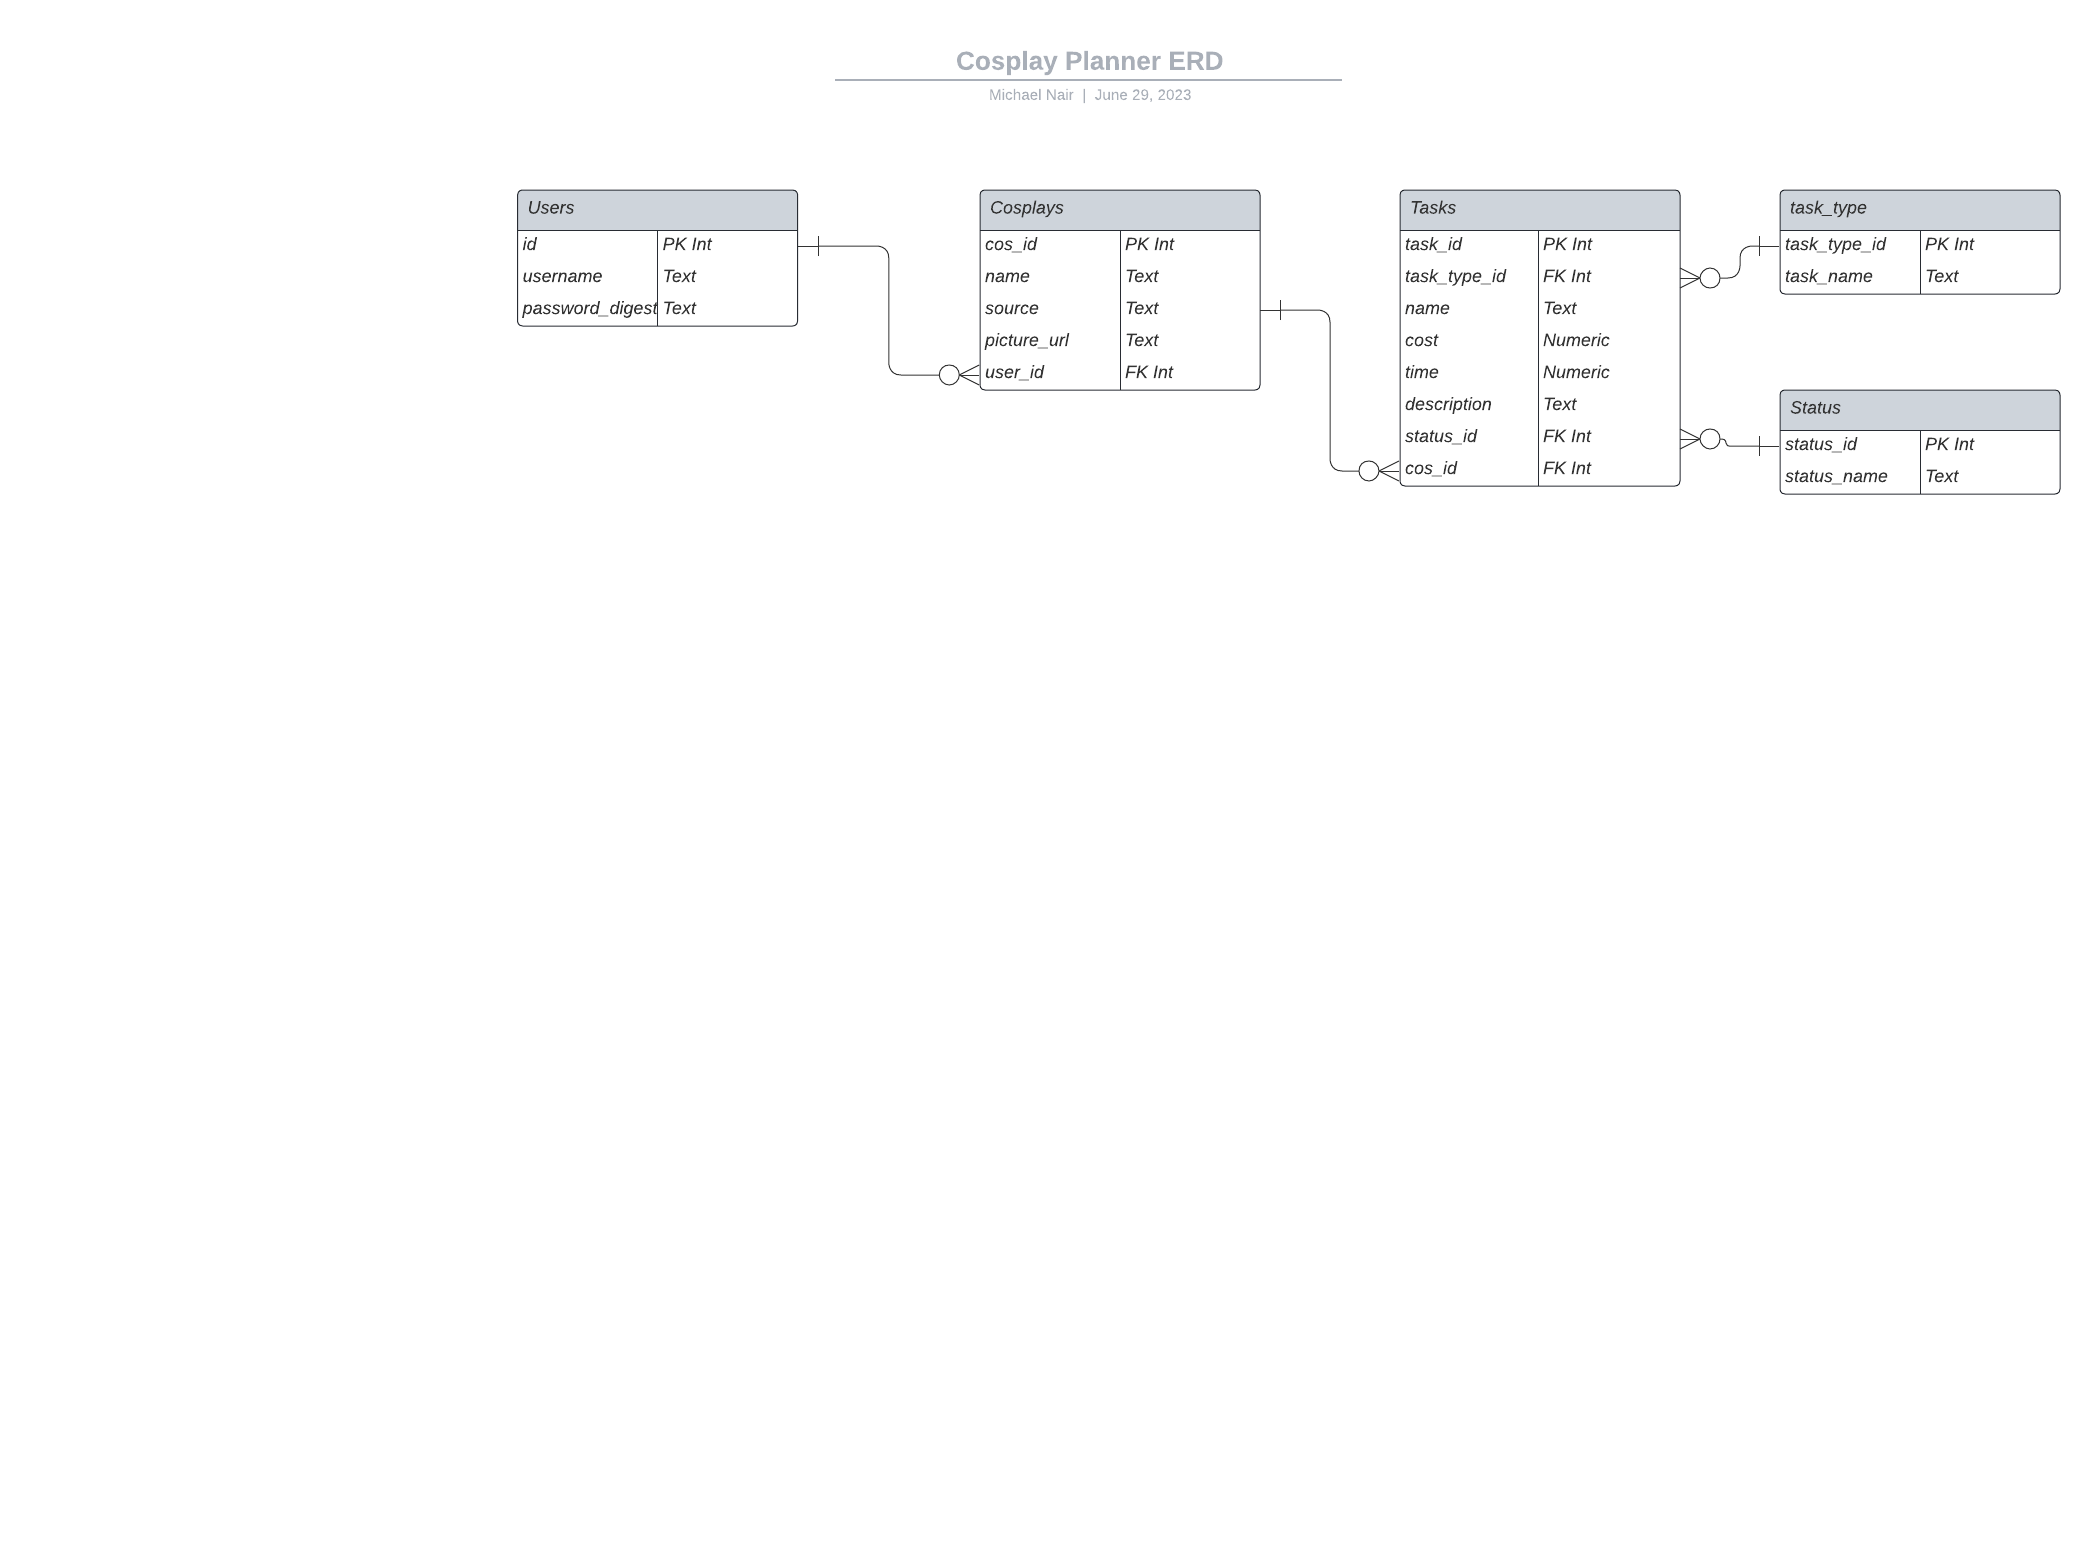
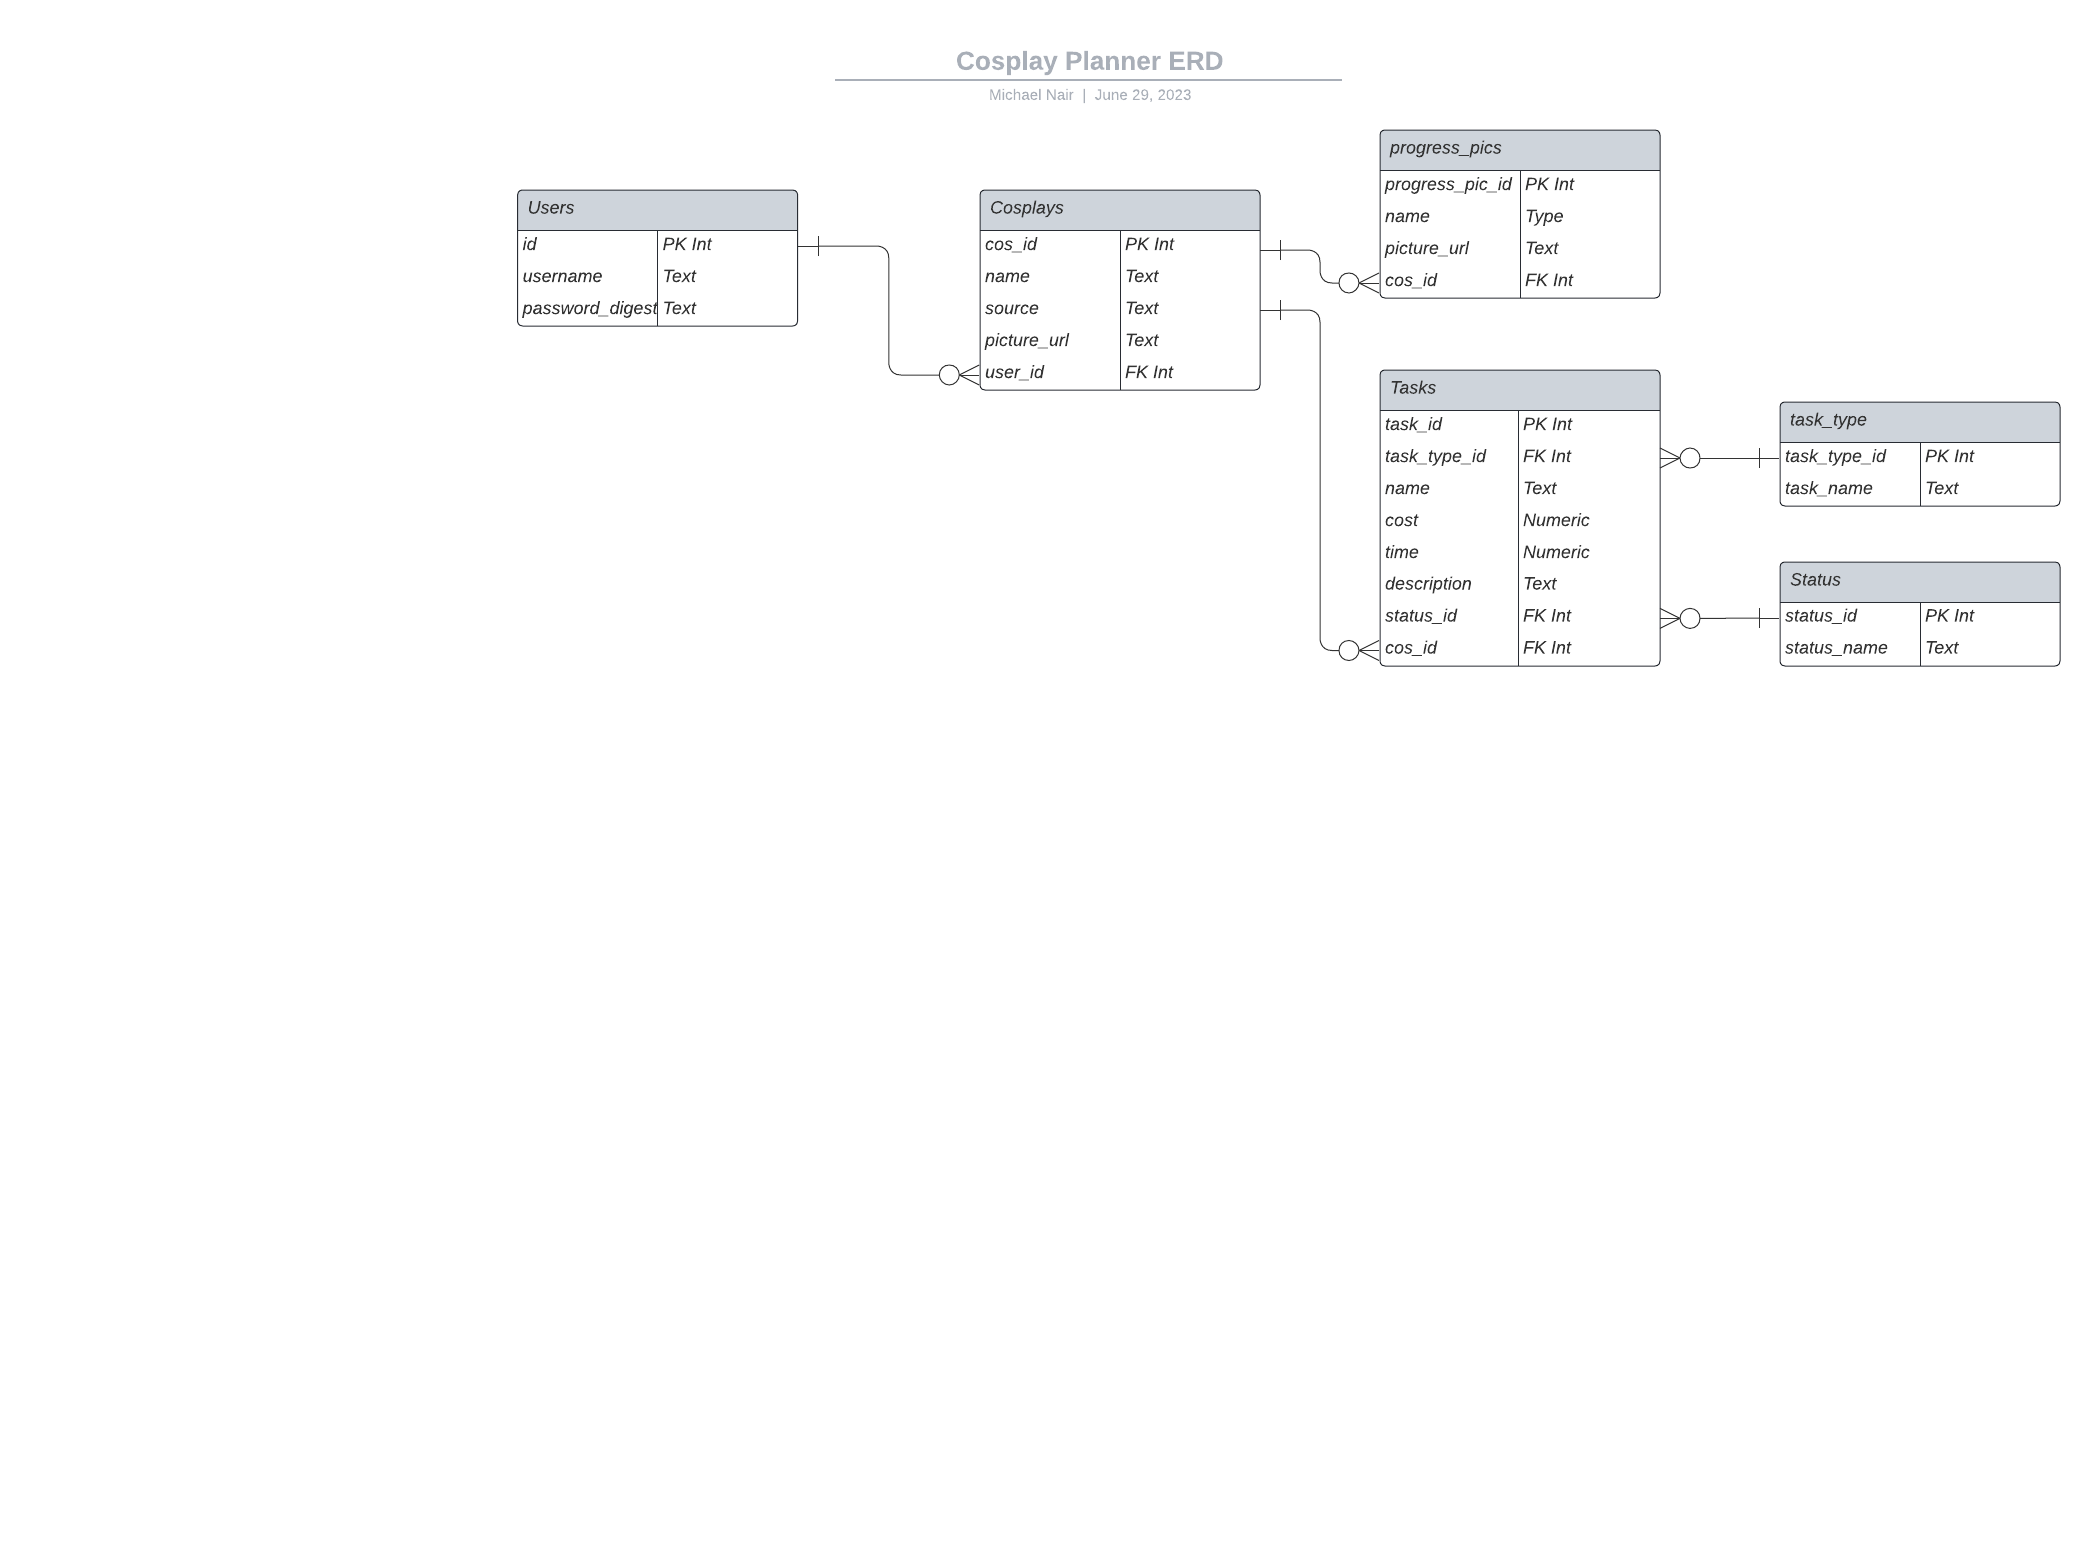
add progress pictures pages

Changed region(s): [[0.65, 0.0619, 0.9905, 0.4335], [0.8357, 0.1239, 0.9905, 0.1858]]

diff --git a/routes/cosplay.js b/routes/cosplay.js
@@ -110,7 +110,6 @@ router.post('/:id/tasks', ensuredLoggedIn, (req, res) => {
     let cos_id = Number(req.params.id)
     let sql = `INSERT INTO tasks (task_type_id, name, cost, time,description, status_id, cos_id)
     VALUES ($1, $2, $3, $4, $5, $6, $7);`
-    console.log([task_type_id, name, cost, time, description, status_id,  cos_id])
     db.query(sql, [task_type_id, name, cost, time, description, status_id,  cos_id], (err, dbRes) => {
         console.log(sql)
         res.redirect(`/cosplays/${req.params.id}`)
@@ -125,7 +124,6 @@ router.get('/:id/tasks/:taskId/edit', ensuredLoggedIn, (req, res) => {
     db.query(sql, [taskId], (err, dbRes) => {
         res.render('cosplays/tasks/edit', {task: dbRes.rows[0]})
     })
-
 })
 
 router.put('/:id/tasks/:taskId', ensuredLoggedIn, (req, res) => {
@@ -139,7 +137,6 @@ router.put('/:id/tasks/:taskId', ensuredLoggedIn, (req, res) => {
     let description = req.body.description
     let sql = `UPDATE tasks SET task_type_id = $1, name = $2, cost = $3, time = $4, status_id = $5, description = $6
     where task_id = $7;`
-    console.log([task_type_id, name, cost, time, status_id, description, task_id])
     db.query(sql, [task_type_id, name, cost, time, status_id, description, task_id], (err, dbRes) => {
         res.redirect(`/cosplays/${id}`)
     })
@@ -153,5 +150,86 @@ router.delete('/:id/tasks/:taskId', ensuredLoggedIn, (req, res) => {
     })
 
 })
+
+
+router.get('/:id/progress', ensuredLoggedIn, (req, res) => {
+    let id = req.params.id
+    let sql = `select * from progress_pics where cos_id = $1;`
+    let sql2 = `select * from cosplays where cos_id = $1;`
+    db.query(sql, [id], (err, dbRes) => {
+        db.query(sql2, [id], (err, dbRes2) => {
+
+            res.render('cosplays/progress/index', {cosId: id, progressPics: dbRes.rows, cosplay: dbRes2.rows[0]})
+        })
+    })
+})
+router.get('/:id/progress/new', ensuredLoggedIn, (req, res) => {
+    let id = req.params.id
+    let sql = `select * from cosplays where cos_id = $1;`
+    db.query(sql, [id], (err, dbRes) => {
+        res.render('cosplays/progress/new', {cosId: id, cosplay: dbRes.rows[0]})
+    })
+})
+
+router.get('/:id/progress/:progressId/edit', ensuredLoggedIn, (req, res) => {
+    let id = req.params.id
+    let progressId = Number(req.params.progressId)
+    let sql = `select * from progress_pics where progress_pic_id = $1;`
+    let sql2 = `select * from cosplays where cos_id = $1;`
+    db.query(sql, [progressId], (err, dbRes) => {
+        
+        db.query(sql2, [id], (err, dbRes2) => {
+
+            res.render('cosplays/progress/edit', {progressPic: dbRes.rows[0], cosplay: dbRes2.rows[0]})
+        })
+    })
+})
+
+router.get('/:id/progress/:progressId/ConfirmDelete', ensuredLoggedIn, (req, res) => {
+    let id = req.params.id
+    let progressId = Number(req.params.progressId)
+    let sql = `select * from progress_pics where progress_pic_id = $1;`
+    let sql2 = `select * from cosplays where cos_id = $1;`
+    db.query(sql, [progressId], (err, dbRes) => {
+        
+        db.query(sql2, [id], (err, dbRes2) => {
+
+            res.render('cosplays/progress/confirm_delete', {progressPic: dbRes.rows[0], cosplay: dbRes2.rows[0]})
+        })
+    })
+})
+
+router.post('/:id/progress/', ensuredLoggedIn, (req, res) => {
+    let name = req.body.name
+    let picture_url = req.body.picture_url
+    let cos_id = Number(req.params.id)
+    let sql = `INSERT INTO progress_pics (name, picture_url, cos_id) 
+        VALUES ($1, $2, $3);`
+    db.query(sql, [name, picture_url, cos_id], (err, dbRes) => {
+        res.redirect(`/cosplays/${req.params.id}/progress`)
+    })
+
+})
+
+router.put('/:id/progress/:progressId', ensuredLoggedIn, (req, res) => {
+    let id = req.params.id
+    let progressId = req.params.progressId
+    let name = req.body.name
+    let picture_url = req.body.picture_url
+    let sql = `UPDATE progress_pics SET name = $1, picture_url = $2
+    where progress_pic_id = $3;`
+    db.query(sql, [name, picture_url, progressId], (err, dbRes) => {
+        res.redirect(`/cosplays/${id}/progress`)
+    })
+})
+
+router.delete('/:id/progress/:progressId', ensuredLoggedIn, (req, res) => {
+    let progress_pic_id = Number(req.params.progressId)
+    let sql = `DELETE FROM progress_pics WHERE progress_pic_id = $1;`
+    db.query(sql, [progress_pic_id], (err, dbRes) => {
+        res.redirect(`/cosplays/${req.params.id}/progress`)
+    })
+})
+
 
 module.exports = router

diff --git a/middlewares/ensure_logged_in.js b/middlewares/ensure_logged_in.js
@@ -5,4 +5,13 @@ function ensuredLoggedIn(req, res, next){
     res.redirect('/')
 }
 
+// let sql = `select user_id from cosplays where cos_id = $1;`
+// db.query(sql, [cos_id], (err, dbRes) => {
+//     if(dbRes.rows[0].user_id === req.session.userId){
+//         next()
+//         return
+//     }
+//     res.redirect('/')
+// })
+
 module.exports = ensuredLoggedIn

diff --git a/README.md b/README.md
@@ -43,6 +43,12 @@ The ERD chart is [here](https://github.com/MichaelPNair/cosplayplanner/tree/main
 ## Delete a cosplay
 ![Screenshot of deleting a cosplay](/screenshots/Delete%20Cosplay.png)
 
+## View progress pictures
+![Screenshot of saved progress pictures](/screenshots/Progress%20Pictures.png)
+
+## Add a progress picture
+![Screenshot of adding a progress picture](/screenshots/Add%20Progress%20Picture.png)
+
 ## Getting Started
 This page is connected to a database to keep track of logged in users and allow logged in users to update pages.
 
@@ -64,6 +70,10 @@ If you set the status of a task to Done, it will have a grey background.
 
 The total costs and time of the tasks will automatically be displayed with any changes to the tasks.
 
+You can also add progress pictures to your cosplay. From the cosplay details page, you can view the progress pictures.
+
+From the progress pictures page, you can add, edit or delete progress pictures.
+
 ## Future Improvement
 - Improve styling of buttons
 - Improve styling of tasks being shown
@@ -71,7 +81,7 @@ The total costs and time of the tasks will automatically be displayed with any c
 - Allow of uploading of own image files
 - Ability to reorder tasks
 - Have Done tasks move below other tasks automatically
-- Add page to display progress pictures of cosplays
+- Select favourite progress picture and have it displayed in cosplay details page
 
 
 ## Thanks
